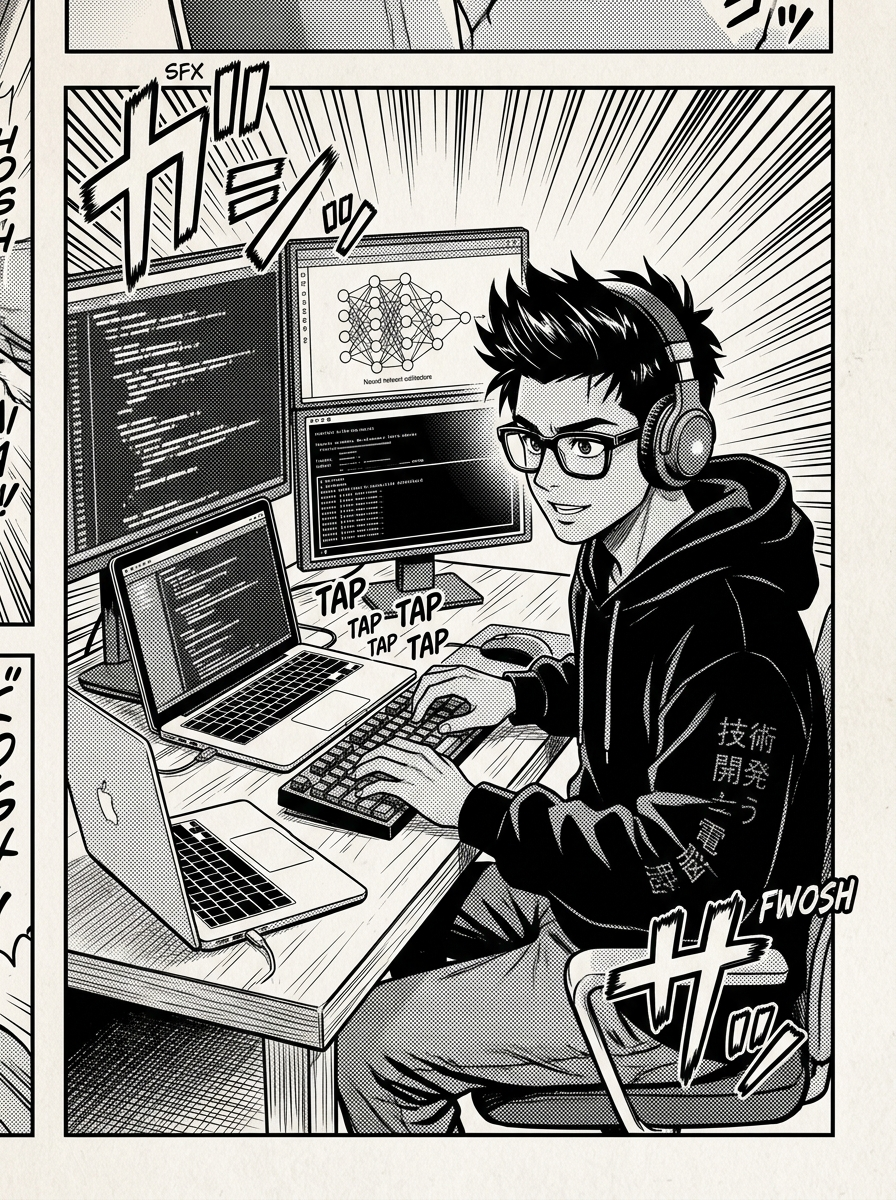
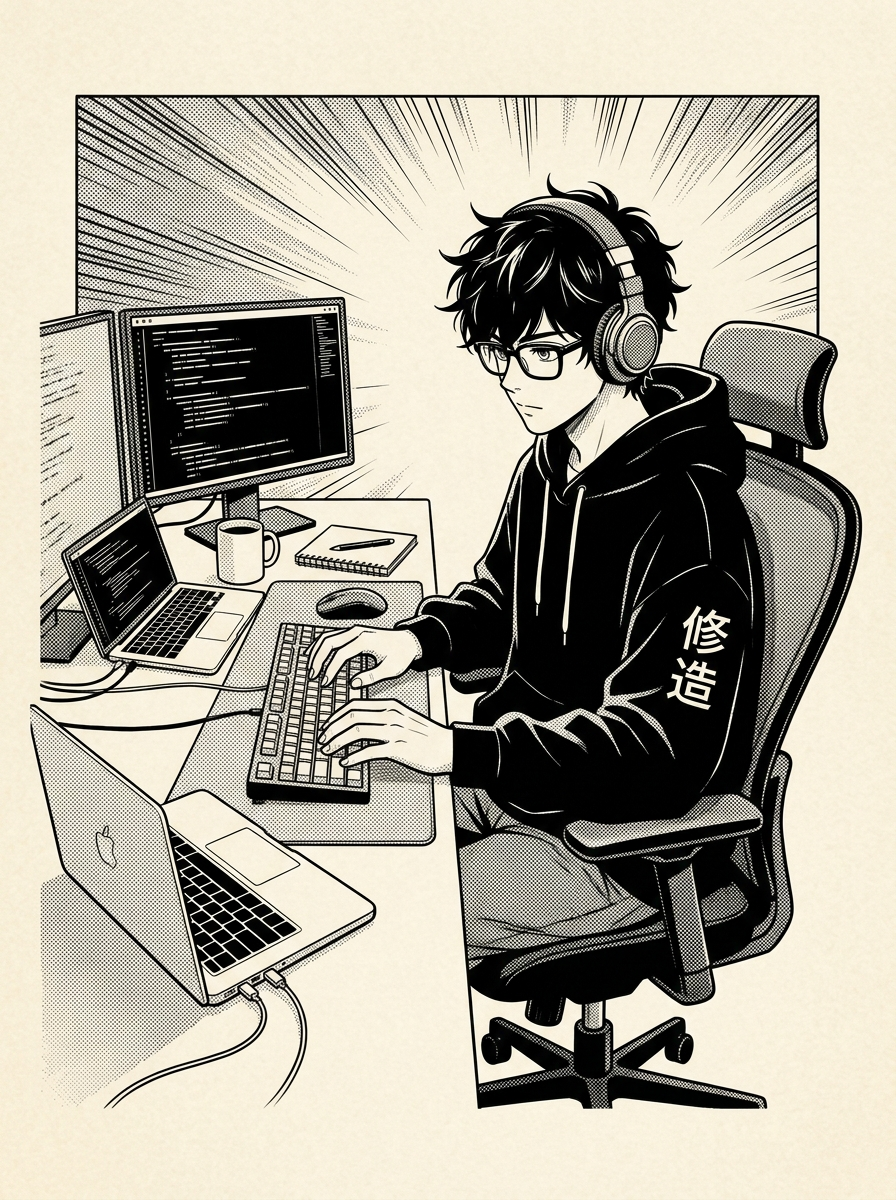
Remove phase tag from opening spread, update work experience artwork to clean sitting desk pose with headphones, and upgrade font theme

diff --git a/index.html b/index.html
@@ -12,7 +12,7 @@
     <!-- Google Fonts -->
     <link rel="preconnect" href="https://fonts.googleapis.com">
     <link rel="preconnect" href="https://fonts.gstatic.com" crossorigin>
-    <link href="https://fonts.googleapis.com/css2?family=Bebas+Neue&family=Caveat:wght@600;700&family=JetBrains+Mono:wght@400;600;700;800&family=Space+Grotesk:wght@500;700;800;900&family=Syne:wght@800;900&display=swap" rel="stylesheet">
+    <link href="https://fonts.googleapis.com/css2?family=Bebas+Neue&family=Caveat:wght@600;700&family=JetBrains+Mono:wght@400;600;700;800&family=Outfit:wght@600;700;800;900&family=Plus+Jakarta+Sans:wght@500;600;700;800&family=Space+Grotesk:wght@500;700;800;900&family=Syne:wght@800;900&display=swap" rel="stylesheet">
     
     <!-- Tailwind CSS CDN -->
     <script src="https://cdn.tailwindcss.com"></script>
@@ -21,9 +21,11 @@
             theme: {
                 extend: {
                     fontFamily: {
+                        outfit: ['Outfit', 'sans-serif'],
+                        jakarta: ['Plus Jakarta Sans', 'sans-serif'],
                         syne: ['Syne', 'sans-serif'],
                         mono: ['JetBrains Mono', 'monospace'],
-                        sans: ['Space Grotesk', 'sans-serif'],
+                        sans: ['Plus Jakarta Sans', 'Space Grotesk', 'sans-serif'],
                         script: ['Caveat', 'cursive'],
                         manga: ['Bebas Neue', 'sans-serif']
                     },
@@ -108,12 +110,8 @@
                 <!-- RIGHT PAGE: PHASE 01, BUILDING!!, Character with Speedlines -->
                 <div class="p-6 sm:p-10 md:p-14 flex flex-col justify-between relative overflow-hidden bg-[#f4f0e6]">
                     
-                    <!-- Top Tag: PHASE 01 -->
-                    <div class="flex items-center justify-between z-10">
-                        <span class="px-2 py-0.5 bg-black text-white font-mono font-bold text-[9px] sm:text-[10px] uppercase tracking-wider rounded-none">
-                            PHASE 01
-                        </span>
-                    </div>
+                    <!-- Top Spacer -->
+                    <div></div>
 
                     <!-- Top Right Action Text: BUILDING!! (Small & Clean) -->
                     <div class="absolute top-6 right-8 sm:top-8 sm:right-10 z-10 transform rotate-[-2deg]">

diff --git a/styles.css b/styles.css
@@ -10,9 +10,10 @@
     --border-black: #000000;
     --text-black: #000000;
     --text-muted: #555555;
+    --font-outfit: 'Outfit', sans-serif;
     --font-syne: 'Syne', sans-serif;
     --font-mono: 'JetBrains Mono', monospace;
-    --font-sans: 'Space Grotesk', -apple-system, sans-serif;
+    --font-sans: 'Plus Jakarta Sans', 'Space Grotesk', -apple-system, sans-serif;
     --font-script: 'Caveat', cursive;
     --font-manga: 'Bebas Neue', sans-serif;
 }
